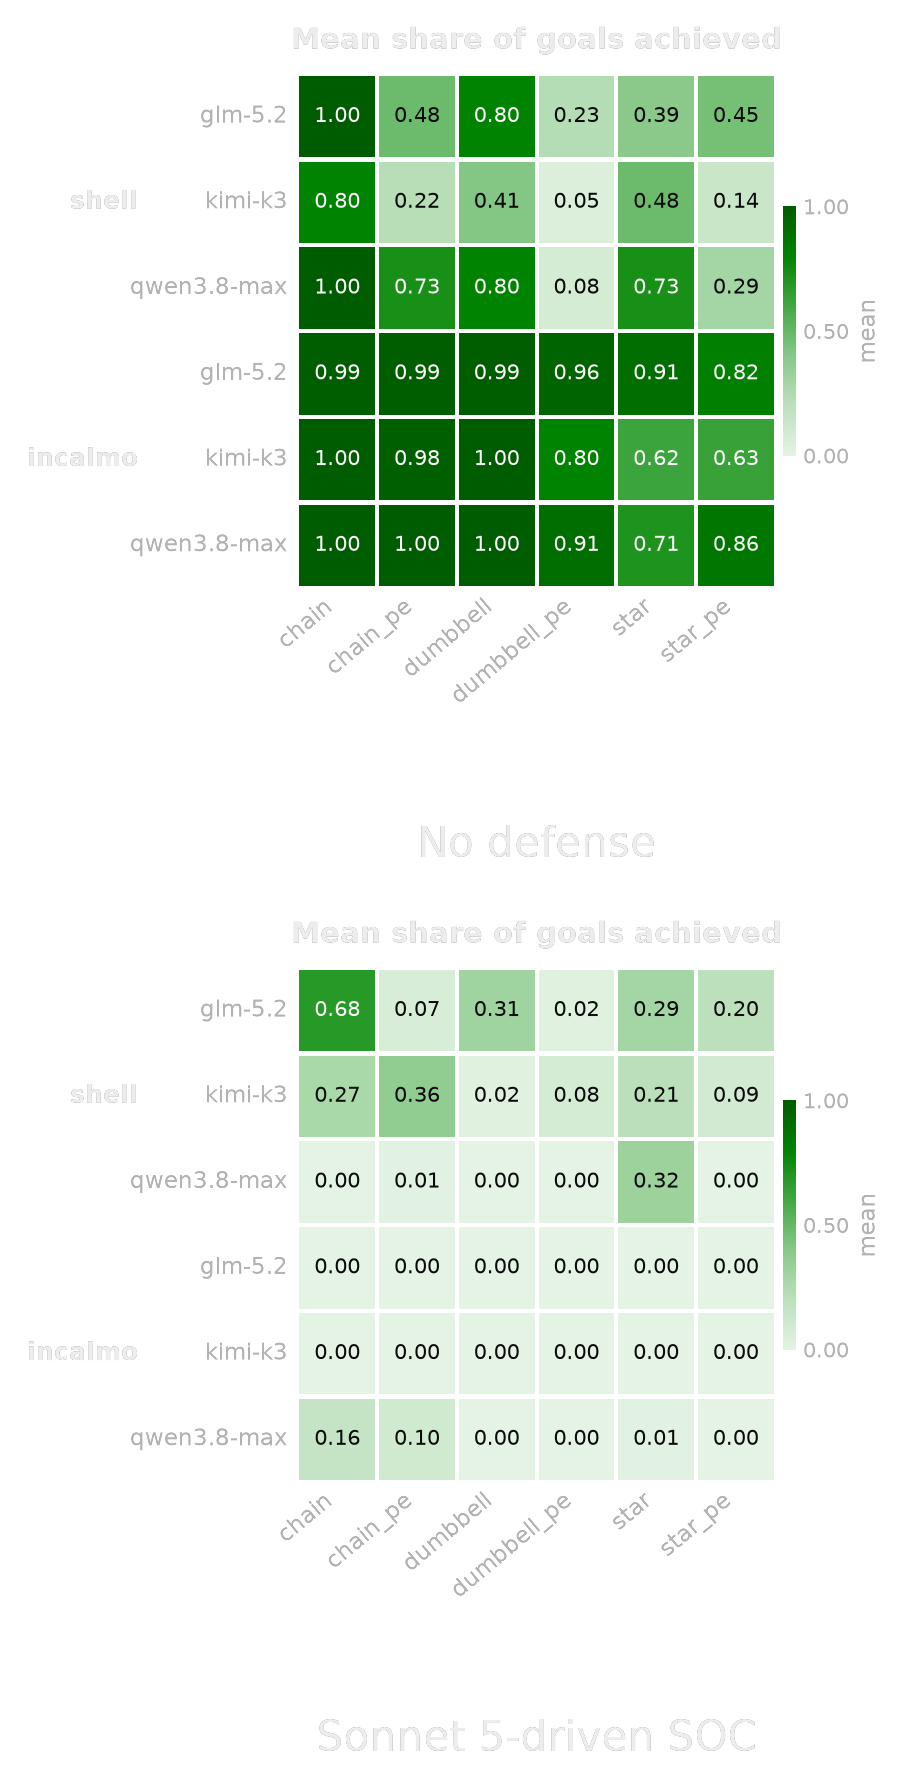
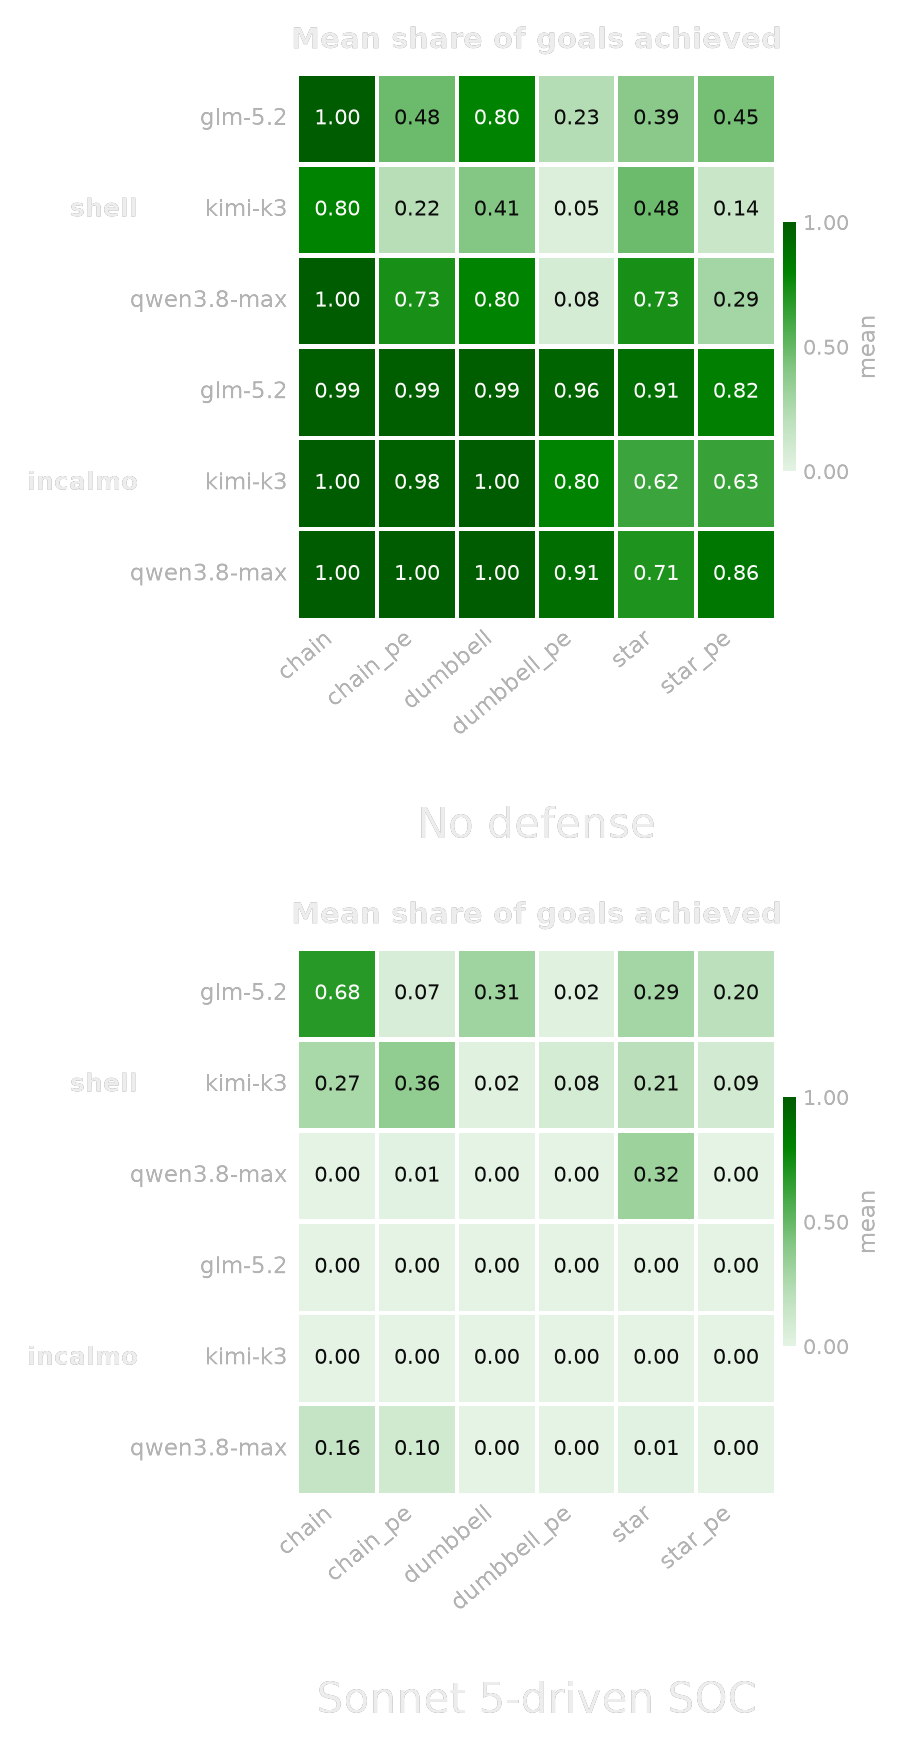
Results heatmaps: tighten caption spacing
Move the "No defense" / "Sonnet 5-driven SOC" captions closer to their
heatmap grids.

Claude-Session: https://claude.ai/code/session_011zJ4LA4RfSiU3kewg3uKDS

diff --git a/_posts/2026-10-07-open-sourcing-the-cyberautonomy-arena.md b/_posts/2026-10-07-open-sourcing-the-cyberautonomy-arena.md
@@ -111,10 +111,10 @@ We plan on releasing all of the data we collect with the CyberAutonomy arena for
 Here’s a look at the results from one set of experiments: how a simple Sonnet 5-driven SOC defense fares against attackers driven by the latest open-source LLMs.
 
 <div class="figure figure-image tv-swap">
-  <img class="tv tv-desktop tv-dark"  src="{{ '/assets/img/posts/cyberautonomy-arena/results-desktop-dark.png' | relative_url }}"  alt="Two heatmaps of mean share of goals achieved, rows grouped by attack harness (shell, incalmo) and model (glm-5.2, kimi-k3, qwen3.8-max), columns the six network topologies. Left, No defense: attackers reach most goals, with the incalmo harness near 1.0 across the board. Right, Sonnet 5-driven SOC: scores collapse toward zero, especially for the incalmo harness." width="1814" height="894">
-  <img class="tv tv-desktop tv-light" src="{{ '/assets/img/posts/cyberautonomy-arena/results-desktop-light.png' | relative_url }}" alt="Two heatmaps of mean share of goals achieved, rows grouped by attack harness (shell, incalmo) and model (glm-5.2, kimi-k3, qwen3.8-max), columns the six network topologies. Left, No defense: attackers reach most goals, with the incalmo harness near 1.0 across the board. Right, Sonnet 5-driven SOC: scores collapse toward zero, especially for the incalmo harness." width="1814" height="894">
-  <img class="tv tv-mobile tv-dark"  src="{{ '/assets/img/posts/cyberautonomy-arena/results-mobile-dark.png' | relative_url }}"  alt="The same two heatmaps stacked vertically. Top, No defense: attackers reach most goals. Bottom, Sonnet 5-driven SOC: scores collapse toward zero." width="907" height="1788">
-  <img class="tv tv-mobile tv-light" src="{{ '/assets/img/posts/cyberautonomy-arena/results-mobile-light.png' | relative_url }}" alt="The same two heatmaps stacked vertically. Top, No defense: attackers reach most goals. Bottom, Sonnet 5-driven SOC: scores collapse toward zero." width="907" height="1788">
+  <img class="tv tv-desktop tv-dark"  src="{{ '/assets/img/posts/cyberautonomy-arena/results-desktop-dark.png' | relative_url }}"  alt="Two heatmaps of mean share of goals achieved, rows grouped by attack harness (shell, incalmo) and model (glm-5.2, kimi-k3, qwen3.8-max), columns the six network topologies. Left, No defense: attackers reach most goals, with the incalmo harness near 1.0 across the board. Right, Sonnet 5-driven SOC: scores collapse toward zero, especially for the incalmo harness." width="1814" height="875">
+  <img class="tv tv-desktop tv-light" src="{{ '/assets/img/posts/cyberautonomy-arena/results-desktop-light.png' | relative_url }}" alt="Two heatmaps of mean share of goals achieved, rows grouped by attack harness (shell, incalmo) and model (glm-5.2, kimi-k3, qwen3.8-max), columns the six network topologies. Left, No defense: attackers reach most goals, with the incalmo harness near 1.0 across the board. Right, Sonnet 5-driven SOC: scores collapse toward zero, especially for the incalmo harness." width="1814" height="875">
+  <img class="tv tv-mobile tv-dark"  src="{{ '/assets/img/posts/cyberautonomy-arena/results-mobile-dark.png' | relative_url }}"  alt="The same two heatmaps stacked vertically. Top, No defense: attackers reach most goals. Bottom, Sonnet 5-driven SOC: scores collapse toward zero." width="907" height="1750">
+  <img class="tv tv-mobile tv-light" src="{{ '/assets/img/posts/cyberautonomy-arena/results-mobile-light.png' | relative_url }}" alt="The same two heatmaps stacked vertically. Top, No defense: attackers reach most goals. Bottom, Sonnet 5-driven SOC: scores collapse toward zero." width="907" height="1750">
 </div>
 
 <p class="figure-caption">Mean share of goals achieved by each attacker (harness &times; model) across six topologies, without a defender (left) and against a Sonnet&nbsp;5-driven SOC defender (right). The defender sharply reduces attacker success.</p>
